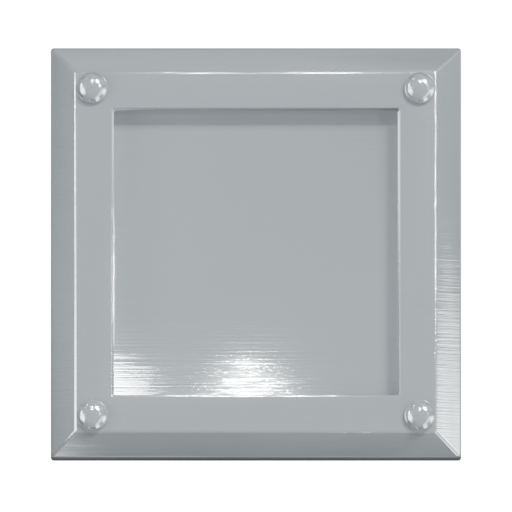
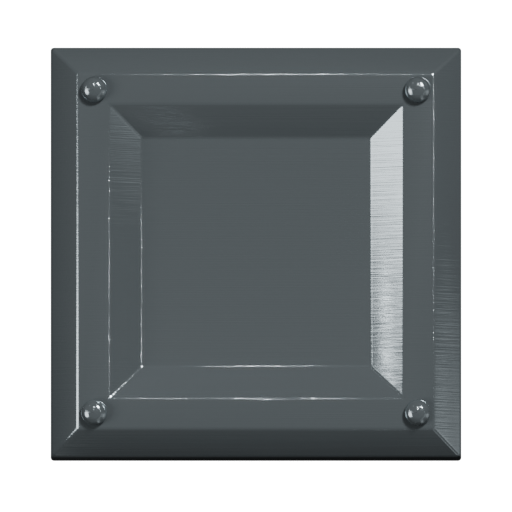
Give the locked plate surfaces that can shade
The plate was flat top and flat pocket floor, and from overhead those
two return the same value whatever the light does - measured four
values apart across every exposure tried. The only angled geometry on
it was a 0.06-cell chamfer. There was nothing there to shade, which
is why raising Metallic looked like the fix: mirror reflections were
standing in for form, and dropping to 0.7 took them away.

So the pocket is cut with SLOPING walls now, and the outer chamfer is
a band rather than a line. A vertical wall is edge-on to this camera
and worth nothing; a sloped one is a visible surface with a lit side
and a shadowed side. Four bands across the plate, and the wall reads
inverted against the chamfer - #8e9597 top to #a1a7aa bottom against
#9aa0a3 to #73787a - which is what says recess rather than raised.

Not the view transform, which I wrongly blamed. It is AgX, and
lowering the exposure only moved the whole flat plate down together.

diff --git a/src/game/objects/itemSprites.ts b/src/game/objects/itemSprites.ts
@@ -138,7 +138,7 @@ export function itemSpriteKey(typeId: string, tier: number): string {
  * A version in the query string makes the URL new, so every client refetches
  * once and then caches again normally.
  */
-export const ITEM_ART_VERSION = 56;
+export const ITEM_ART_VERSION = 57;
 
 /** Where the renderer writes it, relative to `public/`. */
 export function itemSpritePath(typeId: string, tier: number): string {

diff --git a/tools/blender/render_items.py b/tools/blender/render_items.py
@@ -3607,21 +3607,23 @@ def render_board():
 # Everything here is in CELLS, scaled by BOARD_CELL at build time, so
 # the numbers can be read straight against the drawn version's own
 # fractions of `size`.
-LOCK_STEEL = 0xaeb7bb
-LOCK_HEIGHT = 0.20
+LOCK_STEEL = 0x7e878b
+LOCK_HEIGHT = 0.22
 # How far the outer chamfer reaches in from the edge. Wide, because
 # from overhead the chamfer is the only part of the plate's edge that
 # has an angle to catch anything - a square edge returns nothing and
 # the plate ends in a hard line.
-LOCK_RIM = 0.060
-LOCK_POCKET = 0.150
-LOCK_POCKET_DEPTH = 0.070
-LOCK_BOLT_INSET = 0.100
-LOCK_BOLT_R = 0.038
+LOCK_RIM = 0.065
+LOCK_POCKET = 0.220
+LOCK_POCKET_DEPTH = 0.064
+# How far the pocket wall leans out per unit of depth.
+LOCK_POCKET_SLOPE = 1.25
+LOCK_BOLT_INSET = 0.105
+LOCK_BOLT_R = 0.032
 LOCK_BOLT_H = 0.030
 # What the last render measured on the plate's own face, so
 # `tier_material` can scale the base colour back onto LOCK_STEEL.
-LOCK_MEASURED = 0xaeb7bb
+LOCK_MEASURED = 0x7e878b
 # The frame, in cells. Bigger than the plate so the chamfer highlight
 # has somewhere to land instead of being clipped at the image edge;
 # the game multiplies the cell by it, so it is a number both sides
@@ -3635,12 +3637,12 @@ LOCK_MEASURED = 0xaeb7bb
 # result away. Pulling the exposure down moves the plate off the
 # shoulder and into the part of the curve that still has slope, which
 # is where its chamfers and its pocket get their contrast back.
-LOCK_LIGHT_SCALE = 0.40
+LOCK_LIGHT_SCALE = 0.30
 # How bright the room the plate mirrors is, and how rough its surface.
 #
 # A metal is nothing but its reflections, so this is not a background
 # setting - it is most of the plate's appearance.
-LOCK_HDRI_STRENGTH = 0.72
+LOCK_HDRI_STRENGTH = 0.06
 LOCK_ROUGHNESS = 0.09
 LOCK_METALLIC = 0.7
 LOCK_FRAME_CELLS = 1.25
@@ -3685,6 +3687,40 @@ def _lock_slab(size: float, height: float, rim: float):
     return ob
 
 
+def _lock_frustum(bottom: float, top: float, depth: float, at: float):
+    """The pocket's cutter: a square well that widens as it rises.
+
+    Tall enough above the plate that the boolean has somewhere to
+    finish, so only the sloped part is ever in contact with the face.
+    """
+    lift = depth * 3
+    b, t = bottom / 2, top / 2
+    flare = t + lift * (top - bottom) / (2 * depth)
+    bm = bmesh.new()
+    rings = [
+        [bm.verts.new(v) for v in ((-b, -b, at - depth), (b, -b, at - depth),
+                                   (b, b, at - depth), (-b, b, at - depth))],
+        [bm.verts.new(v) for v in ((-t, -t, at), (t, -t, at),
+                                   (t, t, at), (-t, t, at))],
+        [bm.verts.new(v) for v in ((-flare, -flare, at + lift), (flare, -flare, at + lift),
+                                   (flare, flare, at + lift), (-flare, flare, at + lift))],
+    ]
+    bm.faces.new(tuple(rings[0]))
+    for lower, upper in zip(rings, rings[1:]):
+        for k in range(4):
+            n = (k + 1) % 4
+            bm.faces.new((lower[k], lower[n], upper[n], upper[k]))
+    bm.faces.new(tuple(rings[-1]))
+    bmesh.ops.recalc_face_normals(bm, faces=bm.faces)
+    mesh = bpy.data.meshes.new("lock-pocket")
+    bm.to_mesh(mesh)
+    bm.free()
+    ob = bpy.data.objects.new("lock-pocket", mesh)
+    bpy.context.collection.objects.link(ob)
+    bpy.context.view_layer.objects.active = ob
+    return ob
+
+
 def _lock_bolt(cell: float):
     """One pan-head fastener, sitting proud of the plate's face."""
     r = LOCK_BOLT_R * cell
@@ -3706,14 +3742,19 @@ def build_locked_plate():
     height = LOCK_HEIGHT * cell
     body = _lock_slab(size, height, LOCK_RIM * cell)
 
-    # The recessed centre, square, with its opening left sharp - the
-    # small bevel `finish` puts on it is what gives the pocket a lit
-    # lip on one side and a shadowed one on the other.
-    pocket_w = size * (1.0 - LOCK_POCKET * 2)
+    # The recessed centre, cut with SLOPING walls.
+    #
+    # A vertical-walled pocket is two flat horizontal surfaces - its
+    # floor and the land around it - and from overhead those return
+    # the same value however the light is arranged: measured at four
+    # values apart across every exposure tried. The wall is the only
+    # part of a recess that can carry tone, and a vertical one is
+    # edge-on to this camera, so it is worth nothing. Sloped, it is a
+    # visible band with a lit side and a shadowed side.
     depth = LOCK_POCKET_DEPTH * cell
-    cutter = cube(pocket_w, pocket_w, depth * 2, base=False)
-    translate_to(cutter, (0.0, 0.0, height))
-    carve(body, cutter)
+    floor_w = size * (1.0 - LOCK_POCKET * 2)
+    mouth_w = floor_w + depth * 2 * LOCK_POCKET_SLOPE
+    carve(body, _lock_frustum(floor_w, mouth_w, depth, height))
 
     bolts = []
     reach = size / 2 - LOCK_BOLT_INSET * cell
